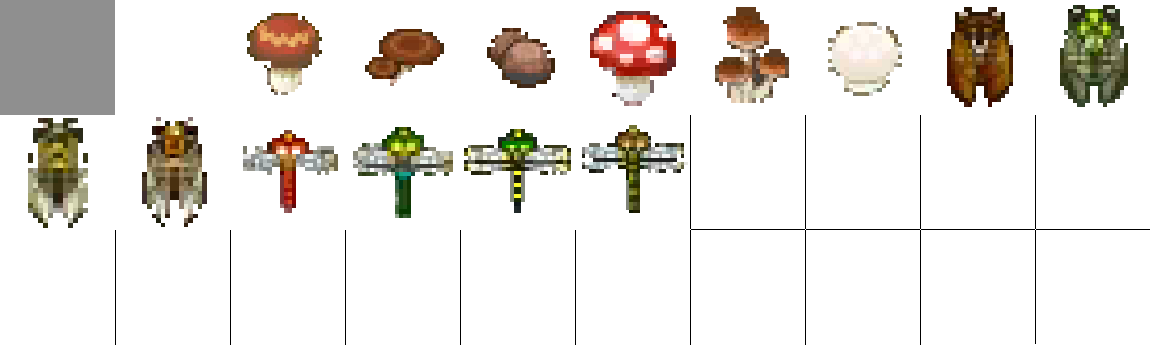
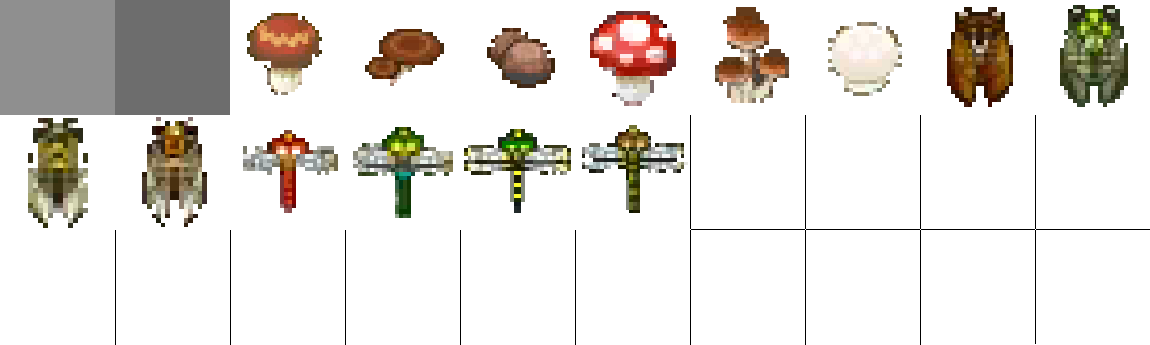
inventory start (you can take item on ground)

Changed region(s): [[0.0913, 0.0, 0.213, 0.3478]]

diff --git a/source/dungeon/make_array/mandatory_blocks.c b/source/dungeon/make_array/mandatory_blocks.c
@@ -20,24 +20,24 @@ int count_rooms(proom_t *proom)
 void create_entry(proc_t *proc)
 {
 	int room = rand() % count_rooms(proc->proom);
-	int posx = proc->proom[room].pos1[0] + 2 +
-	(rand() % (proc->proom[room].width + 1) - 1);
-	int posy = proc->proom[room].pos1[1] + 2 +
-	(rand() % (proc->proom[room].height + 1) - 1);
+	int posx = proc->proom[room].pos1[0] +
+	(rand() % (proc->proom[room].width));
+	int posy = proc->proom[room].pos1[1] +
+	(rand() % (proc->proom[room].height));
 
-	proc->map[posy][posx] = 'E';
+	proc->map[posy + 2][posx + 2] = 'E';
 }
 
 void create_leave(proc_t *proc)
 {
 	int room = rand() % count_rooms(proc->proom);
-	int posx = proc->proom[room].pos1[0] + 2 +
-	(rand() % (proc->proom[room].height + 1) - 1);
-	int posy = proc->proom[room].pos1[1] + 2 +
-	(rand() % (proc->proom[room].height + 1) - 1);
+	int posx = proc->proom[room].pos1[0] +
+	(rand() % (proc->proom[room].width));
+	int posy = proc->proom[room].pos1[1] +
+	(rand() % (proc->proom[room].height));
 
-	if (proc->map[posy][posx] == 'E')
-		proc->map[posy][posx] = 'B';
+	if (proc->map[posy + 2][posx + 2] == 'E')
+		proc->map[posy + 2][posx + 2] = 'B';
 	else
-		proc->map[posy][posx] = 'S';
+		proc->map[posy + 2][posx + 2] = 'S';
 }

diff --git a/source/dungeon/ground_item_system/update_ground_item.c b/source/dungeon/ground_item_system/update_ground_item.c
@@ -1,0 +1,41 @@
+/*
+** EPITECH PROJECT, 2018
+** update_ground_item.c
+** File description:
+** verify item pickup on ground
+*/
+
+#include "my.h"
+#include "my_rpg.h"
+
+void dispawn_item(st_rpg *rpg, gitem_t *to_remove)
+{
+	gitem_t *last = NULL;
+	gitem_t *current = rpg->proc.first_gritem;
+
+	while (current != to_remove) {
+		last = current;
+		current = current->next;
+	}
+	if (last == NULL)
+		rpg->proc.first_gritem = rpg->proc.first_gritem->next;
+	else
+		last->next = current->next;
+}
+
+void update_item_ground(st_rpg *rpg)
+{
+	gitem_t *current = rpg->proc.first_gritem;
+	sfVector2i ipos;
+	sfVector2i ppos =
+	{rpg->player.obj->pos.x / 96, rpg->player.obj->pos.y / 96};
+
+	while (current != NULL) {
+		ipos = (sfVector2i){current->pos.x / 96, current->pos.y / 96};
+		if (ipos.x == ppos.x && ipos.y == ppos.y) {
+			add_inventory_item(rpg->inv.first_slot, current->id);
+			dispawn_item(rpg, current);
+		}
+		current = current->next;
+	}
+}

diff --git a/source/dungeon/inventory_system/inventory_items_handling.c b/source/dungeon/inventory_system/inventory_items_handling.c
@@ -10,14 +10,18 @@
 
 int add_inventory_item(item_t *first_slot, unsigned int id)
 {
-	item_t *current;
+	item_t *current = first_slot;
 	int pos = search_item(first_slot, id);
 
 	if (pos == -1) {
-		while (current != NULL && current->sprite != NULL)
+		while (current != NULL && current->id != 1)
 			current = current->next;
 		if (current == NULL)
 			return (0);
+		current->id = id;
+		if (current->sprite != NULL)
+			sfSprite_destroy(current->sprite);
+		current->sprite = NULL;
 		current->stacks += 1;
 	} else {
 		while ((signed)current->pos < pos)

diff --git a/source/dungeon/ground_item_system/create_items_on_ground.c b/source/dungeon/ground_item_system/create_items_on_ground.c
@@ -64,13 +64,16 @@ void verif_block_creating(st_rpg *rpg, proom_t *proom, int y, gitem_t **crt)
 
 void destroy_items_list(st_rpg *rpg)
 {
+	gitem_t *last = NULL;
 	gitem_t *crt = rpg->proc.first_gritem;
 
 	while (crt != NULL) {
 		sfSprite_destroy(crt->sprite);
+		last = crt->next;
 		free(crt);
-		crt = crt->next;
+		crt = last;
 	}
+	rpg->proc.first_gritem = NULL;
 }
 
 void create_items_list(st_rpg *rpg)

diff --git a/include/procedural.h b/include/procedural.h
@@ -145,6 +145,7 @@ void verify_mouse_inv_events(st_rpg *rpg);
 void create_items_list(st_rpg *rpg);
 void destroy_items_list(st_rpg *rpg);
 void draw_item_on_ground(st_rpg *rpg);
+void update_item_ground(st_rpg *rpg);
 
 //NPC
 //ENNEMIES

diff --git a/source/dungeon/launch_game/dungeon_loop.c b/source/dungeon/launch_game/dungeon_loop.c
@@ -68,6 +68,7 @@ void update_dungeon_loop(st_rpg *s)
 		player_animation(s);
 	update_class(s);
 	update_particles(s);
+	update_item_ground(s);
 }
 
 void stop_player(st_rpg *s)
